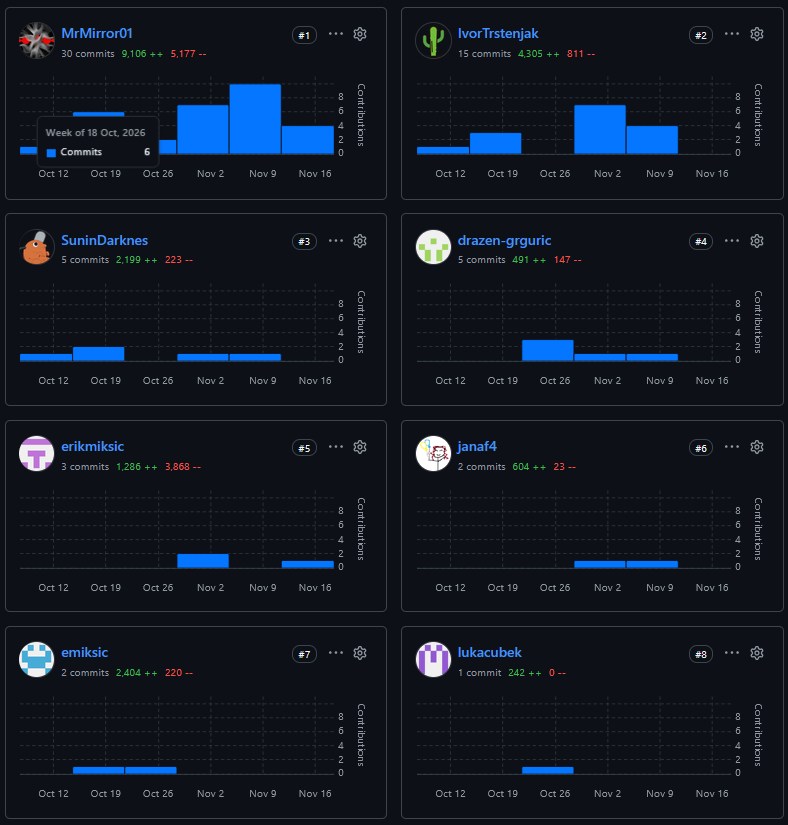
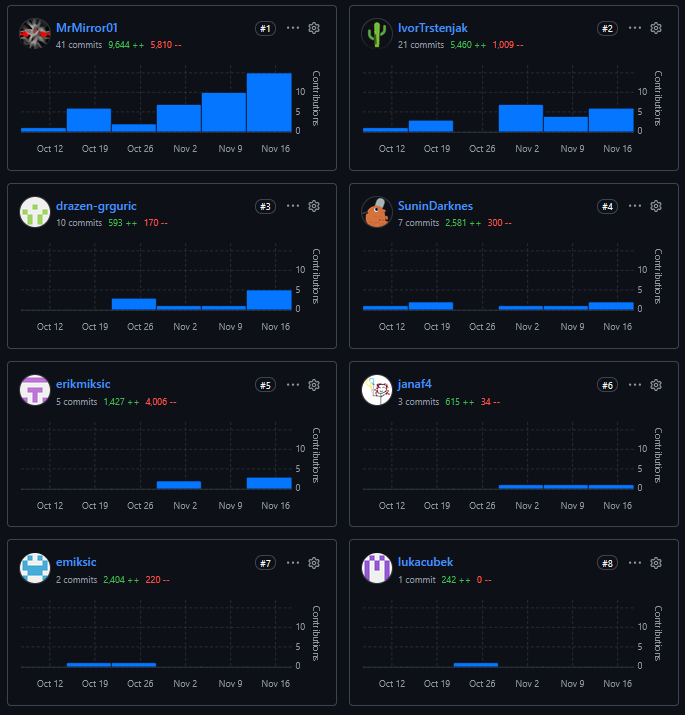
docs: Ažurirani pregled aktivnosti grupe

diff --git a/docs/A-Pregled-aktivnosti-grupe.md b/docs/A-Pregled-aktivnosti-grupe.md
@@ -16,7 +16,7 @@
 
 ## A.3 Aktivnosti i doprinosi članova
 
-Sastavljeno na temelju povijesti commit-ova i kanala `#progres-updates` u discord serveru.
+Sastavljeno na temelju povijesti commit-ova (naredba `git log --pretty=format:"%an,%ad,%s" --date=short > commit_history.csv`) i kanala `#progres-updates` u discord serveru.
 
 | Datum | Aktivnost ili rezultat | Član | Reprezentativni rezultat ili poveznica |
 | --- | --- | --- | --- |
@@ -60,7 +60,18 @@ Sastavljeno na temelju povijesti commit-ova i kanala `#progres-updates` u discor
 | 17. 11. 2026. | Dovršeno dodavanje aktivnosti; dodana pretraga po nazivu i kategoriji te poruke za neispravan unos. | Dražen Grgurić | Backend za dodavanje aktivnosti i filtriranje po nazivu/kategoriji |
 | 17. 11. 2026. | Prošireno filtriranje aktivnosti po lokaciji i rasponu trajanja. | Dražen Grgurić | `filterActivities` u `activities.model.ts` |
 | 17. 11. 2026. | Dodani dijakritički znakovi te zahtjevi za ocjenjivanje izleta i vodiča. | Erik Mikšič | `docs/1-Projekt.md` i povezani zahtjevi |
-| 18. 11. 2026. | Dodatno uređeni dijelovi dokumentacije | Jakov Biškup | Dokumentacija u `docs/` |
+| 18. 11. 2026. | Dovršena poglavlja Projekt, Analiza zahtjeva i Obrasci uporabe; dodatno uređeni dokumentacija arhitekture, pregled aktivnosti grupe, tjedni plan, README i početna stranica dokumentacije. | Jakov Biškup | `docs/1-Projekt.md`, `docs/2-Analiza zahtjeva.md`, `docs/3-Obrasci-uporabe.md`, `docs/4-Arhitektura-i-oblikovanje.md`, `A-Pregled-aktivnosti-grupe.md`, `README.md`, `Home.md` |
+| 18. 11. 2026. | Povezano filtriranje aktivnosti na frontend i backend; pretraga i filtri aktivnosti sada se šalju putem GET forme. | Ivor Trstenjak | Frontend i backend filtriranje aktivnosti; GET forma za pretragu |
+| 18. 11. 2026. | Dodani podaci o korištenju AI alata u projektnoj dokumentaciji. | Erik Mikšič | `Home.md` – korištenje AI alata |
+| 18. 11. 2026. | Dopunjena projektna dokumentacija podacima o korištenju AI alata. | Dražen Grgurić | `Home.md` – korištenje AI alata |
+| 19. 11. 2026. | Pregledan prvi dio projektne dokumentacije. | Jana Furdi | Pregled dokumentacije – prvi dio |
+| 19. 11. 2026. | Dovršeno preusmjeravanje korisnika nakon prijave na stranicu kojoj je prvotno pokušao pristupiti. Dodan i zajednički prikaz za funkcionalnosti u izradi. | Ivor Trstenjak | `Preserve login return destinations`; `under-construction` partial view |
+| 19. 11. 2026. | Provedeno potpuno testiranje aplikacije, dodani dodatni testovi za novu funkcionalnost te promjene spojene u glavnu granu. Jedan test ostao je neuspješan zbog neusklađenosti testnih podataka i koda, dok je ostalo testiranje prošlo. | Luka Čubek | Testna grana, dodatni testovi i rezultati testiranja |
+| 19. 11. 2026. | Integrirane sve funkcionalnosti u glavnu granu i postavljene u produkcijsko okruženje. | Jakov Biškup | `main`; produkcijska aplikacija: [izleti.xyz](https://izleti.xyz/) |
+| 19. – 20. 11. 2026. | Dovršeni preostali dijelovi dokumentacije, uključujući dijagram obrazaca uporabe, dijagram razmještaja i pripadajuću analizu te opis javnog postavljanja aplikacije. | Florijan Gotal | Poglavlja 3.1, 6.1 i 6.3 dokumentacije |
+| 20. 11. 2026. | Provedene završne dorade projektne dokumentacije, uključujući upute za instalaciju i konfiguraciju, dokumentaciju ispitivanja, UML dijagram postavljanja te dorade poglavlja Home, Analiza zahtjeva i Arhitektura. Dokumentacija je spojena u glavnu granu. | Jakov Biškup | `README.md`, `Home.md` i datoteke u `docs/`; UML dijagrami |
+| 20. 11. 2026. | Dodani zapisi o izvođenju komponentnih i integracijskih testova. | Luka Čubek | Dokumentacija rezultata komponentnog i integracijskog testiranja |
+| 20. 11. 2026. | Izrađena video demonstracija rada aplikacije. | Ivor Trstenjak | [Video](https://drive.google.com/file/d/1adONSj133L-aNItnB8KN_mb0FsGuhEoU/view) |
 
 ## A.4 Pregled promjena u repozitoriju
 
@@ -69,11 +80,11 @@ Sastavljeno na temelju povijesti commit-ova i kanala `#progres-updates` u discor
 
 
 Graf loše prikazuje ili ne prikazuje slijedeće stavke:
-- Jakov Biškup (MrMirror01) bio je zadužen za merge-anje grana te je dodavao predloške za dokumentaciju zbog ćega ima veći broj commitova i linija koda
+- Jakov Biškup (MrMirror01) je dodavao predloške za dokumentaciju zbog čega ima prevelik broj dodanih linija; također radi puno malih commitova umijesto manje većih
 - Florijan Gotal (SuninDarkness) radio je na postavljanju stranice te većina tog posla nije vidljiva na GitHub repozitoriju
 - Erik Mikšič zabunom je koristio dva account-a za pristup repozitoriju pa je statistika podijeljena
 - Jana Furdi radila je na dizajnu stranice što nije vidljivo iz broja commit-ova i promjenjenih linija koda
-- Luka Čubek bio je zadužen za ispitivanje i planiranje što nije direktno vidljivo iz statistika
+- Luka Čubek bio je zadužen za ispitivanje i planiranje što nije direktno vidljivo iz statistika; također, iz nepoznatog razloga neki njegovi commitovi se ne prikazuju (npr. commit `105bd1b`)
 
 ## A.5 Ključni inženjerski izazovi i rješenja
 

diff --git a/docs/7-Zakljucak-i-buduci-rad.md b/docs/7-Zakljucak-i-buduci-rad.md
@@ -8,7 +8,7 @@ Organizator može dodavati, uređivati i pretraživati aktivnosti.
 
 ## 7.2 Izazovi i naučene lekcije
 
-U ranijim iteracijama dizajna baze probali smo organizirati dodatke na izletima na način da budu dostupni samo na jednom izletu. Ovo je dovelo do kompliciranog modela podataka te bi u budućnosti izazvalo poteškoće kod izrade statistike dodataka. Zbog toga smo odlučili da postoje generički dodatci koji se dodaju na događaj (a ne izlet) uz dodatno pojašnjenje.
+U ranijim iteracijama dizajna baze probali smo organizirati dodatke na izletima na način da budu dostupni samo na jednom izletu. Ovo je dovelo do kompliciranog modela podataka te bi u budućnosti izazvalo poteškoće kod izrade statistike dodataka. Zbog toga smo odlučili da postoje generički dodatci koji se dodaju na događaj (a ne izlet) uz dodatno pojašnjenje specifično za događaj.
 
 Na početku razvoja projekta napredak je bio raspodijeljen preko mnogo grana u git repozitoriju te se nisu provodila česta spajanja što je dovelo do problema u konzistenciji, puno različih verzija istog koda na različitim granama, problema kod spajanja...
 U budućnosti ćemo uvesti češća spajanja grana sa main-om i jasniju komunikaciju oko toga na kojoj se grani nalaze promjene.
